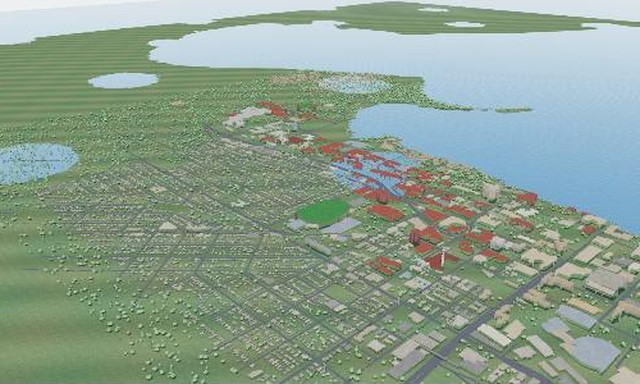
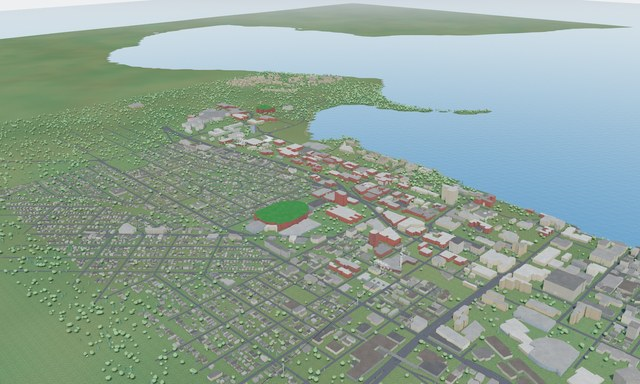
Campus twin: solid buildings, grey roofs, dimmed night; new card picture

diff --git a/CaseStudies/cbe-digital-twins/campus/index.html b/CaseStudies/cbe-digital-twins/campus/index.html
@@ -586,7 +586,7 @@ aside { overflow-anchor: none; }
         <h4>How to explore</h4>
         <ul><li>Opens on the <b>Campus</b> overview with the numbered ChemE spots.</li><li><b>Click a spot</b> (or its row on the left) to zoom in and open its card.</li><li><b>Drag</b> to orbit, <b>scroll</b> or pinch to zoom.</li><li>Camera buttons, bottom right: <b>Campus</b> (overview), <b>Lakeshore</b>, <b>Plants</b>, <b>West campus</b>, <b>Overhead</b>.</li></ul>
         <h4>Buttons</h4>
-        <ul><li><b>Energy tour</b>: 13 guided stops through plants, pipes and buildings.</li><li><b>Networks</b>: shows the steam and chilled-water pipes, with flow.</li><li><b>Heat map</b>: colours buildings by this hour's heating or cooling demand.</li><li><b>Day/night lighting</b>: sun, sky and lights follow the clock; off holds midday light.</li><li><b>Real world</b>: what this system is and why it matters.</li><li><b>Conditions</b>: live readings on the plants and landmarks.</li><li>Subject chips (<b>Balances</b>, <b>Thermo</b>, …): a short lesson per course.</li><li><b>Winter · Spring · Summer · Fall</b> and <b>Day · Night</b>: jump in time. <b>Play</b> and the speed buttons run the clock.</li></ul>
+        <ul><li><b>Energy tour</b>: 13 guided stops through plants, pipes and buildings.</li><li><b>Networks</b>: shows the steam and chilled-water pipes, with flow.</li><li><b>Heat map</b>: colours buildings by this hour's heating or cooling demand.</li><li><b>Day/night lighting</b>: sun, sky and lights follow the clock; at night the scene dims to soft moonlight (never dark) and windows and street lights come on; off holds midday light.</li><li><b>Real world</b>: what this system is and why it matters.</li><li><b>Conditions</b>: live readings on the plants and landmarks.</li><li>Subject chips (<b>Balances</b>, <b>Thermo</b>, …): a short lesson per course.</li><li><b>Winter · Spring · Summer · Fall</b> and <b>Day · Night</b>: jump in time. <b>Play</b> and the speed buttons run the clock.</li></ul>
         <h4>Change conditions</h4>
         <ul><li>Pick a <b>Pathway</b> in the side panel, or move the levers under Electricity, Heating, Cooling and Economics.</li><li>Watch annual CO₂, cost, and the "What this means" boxes.</li></ul>
         <h4>Equations, courses, problems</h4>
@@ -913,7 +913,7 @@ renderer.shadowMap.enabled = true; renderer.shadowMap.type = THREE.PCFSoftShadow
 stage.prepend(renderer.domElement);
 const scene = new THREE.Scene();
 const HAZE = new THREE.Color("#c9d3d9");
-scene.fog = new THREE.Fog(HAZE.clone(), 7000, 26000);
+scene.fog = new THREE.Fog(HAZE.clone(), 6000, 17000);   // the ground ends ~7 km out: haze hides its edge
 const pmrem = new THREE.PMREMGenerator(renderer);
 scene.environment = pmrem.fromScene(new RoomEnvironment(renderer), 0.04).texture;
 const skyU = { top: { value: new THREE.Color("#5f8fc4") }, mid: { value: new THREE.Color("#b6c9d8") }, bot: { value: HAZE.clone() } };
@@ -923,19 +923,22 @@ scene.add(new THREE.Mesh(new THREE.SphereGeometry(30000, 32, 16), new THREE.Shad
 // Physical sky (Preetham) driven by the sun position; the environment light is rebuilt from it with PMREM.
 const sky = new Sky(); sky.scale.setScalar(28000); scene.add(sky);
 // keep the sun disk finite in the half-float buffers (the stock shader reaches ~1e5 there, which bloom would smear)
-sky.material.fragmentShader = sky.material.fragmentShader.replace("gl_FragColor = vec4( retColor, 1.0 );", "retColor = clamp(retColor, vec3(0.0), vec3(24.0)); gl_FragColor = vec4( retColor, 1.0 );");
+sky.material.fragmentShader = sky.material.fragmentShader.replace("uniform vec3 up;", "uniform vec3 up;\nuniform vec3 uDusk; uniform float uDuskK;").replace("gl_FragColor = vec4( retColor, 1.0 );", "retColor = clamp(retColor, vec3(0.0), vec3(24.0)); retColor = mix(retColor, uDusk * mix(1.0, 0.75, smoothstep(0.0, 0.6, direction.y)), uDuskK); gl_FragColor = vec4( retColor, 1.0 );");
+sky.material.uniforms.uDusk = { value: new THREE.Color("#3a5684") }; sky.material.uniforms.uDuskK = { value: 0 };
 const envSky = new Sky(); envSky.scale.setScalar(50); envSky.material.uniforms = sky.material.uniforms; envSky.material.fragmentShader = sky.material.fragmentShader; const envScene = new THREE.Scene(); envScene.add(envSky);
 Object.assign(sky.material.uniforms, { turbidity: { value: 4 }, rayleigh: { value: 1.2 }, mieCoefficient: { value: 0.004 }, mieDirectionalG: { value: 0.8 } });
-let envRT = null, envT = -1, envDir = new THREE.Vector3();
+let envRT = null, envT = -1, envK = -1, envDir = new THREE.Vector3();
 function updateEnv(now, force) {
-  if (!force && (now - envT < 400 || envDir.distanceToSquared(sky.material.uniforms.sunPosition.value) < 1e-4)) return;
-  envT = now; envDir.copy(sky.material.uniforms.sunPosition.value);
+  const dk = sky.material.uniforms.uDuskK.value;
+  if (!force && (now - envT < 400 || (envDir.distanceToSquared(sky.material.uniforms.sunPosition.value) < 1e-4 && Math.abs(dk - envK) < 0.02))) return;
+  envT = now; envDir.copy(sky.material.uniforms.sunPosition.value); envK = dk;
   const rt = pmrem.fromScene(envScene, 0, 0.1, 100); if (envRT) envRT.dispose(); envRT = rt; scene.environment = rt.texture;
 }
 const camera = new THREE.PerspectiveCamera(38, 1, 4, 40000);
 const controls = new OrbitControls(camera, renderer.domElement);
 controls.enableDamping = true; controls.maxPolarAngle = Math.PI * 0.48; controls.maxDistance = 12000; controls.minDistance = 30;
 const hemi = new THREE.HemisphereLight("#eef3f7", "#55604a", 0.7); scene.add(hemi);
+const HEMI_DAY = [new THREE.Color("#eef3f7"), new THREE.Color("#55604a")], HEMI_NIGHT = [new THREE.Color("#a9bde0"), new THREE.Color("#4a5566")];
 const sun = new THREE.DirectionalLight("#fff3e2", 2.4);
 sun.castShadow = true; sun.shadow.mapSize.set(PHONE ? 1024 : 4096, PHONE ? 1024 : 4096); sun.shadow.radius = 3; sun.shadow.bias = -0.0005; sun.shadow.normalBias = 1.5;
 Object.assign(sun.shadow.camera, { left: -2600, right: 2600, top: 2600, bottom: -2600, near: 10, far: 9000 });
@@ -1037,14 +1040,17 @@ function lightTargets() {
   const d = Math.floor(hour / 24) % 365, follow = dayNight && !REDUCED, hod = follow ? hour % 24 : 12.5, hAbs = d * 24 + hod;
   const s = M.sunPos(d, hod), g = ghiAt(hAbs), se = Math.max(0.01, Math.sin(s.el));
   const day01 = Math.min(1, Math.max(0, (s.elDeg + 4) / 14)), cloud = Math.min(1, Math.max(0, 1 - g / Math.max(1, 1098 * se * Math.exp(-0.057 / Math.max(0.05, se)) * 0.85)));
-  LT.dir.set(-Math.cos(s.el) * Math.sin(s.az), Math.sin(s.el), Math.cos(s.el) * Math.cos(s.az));
-  LT.sun = s.el > 0 ? 3.4 * Math.min(1, g / 500 + 0.3) * Math.min(1, s.elDeg / 3) : 0;
-  const warm = Math.max(0, 1 - s.elDeg / 18); LT.sunC.setRGB(1, 0.93 - 0.25 * warm, 0.85 - 0.45 * warm);
-  LT.hemi = 0.1 + 0.22 * day01;
-  const night = 1 - day01, clear = new THREE.Color("#4f86c6"), over = new THREE.Color("#8c969e"), dusk = new THREE.Color("#e8a26a"), nite = new THREE.Color("#0b1424");
+  LT.dir.set(-Math.cos(s.el) * Math.sin(s.az), Math.sin(s.el), Math.cos(s.el) * Math.cos(s.az)); (LT.sunDir ||= new THREE.Vector3()).copy(LT.dir);
+  // night factor: 0 with the sun above 6°, 1 below −6°; at night the scene dims to a moonlit dusk (never full darkness)
+  const nf = Math.min(1, Math.max(0, (6 - s.elDeg) / 12)); LT.nf = nf * nf * (3 - 2 * nf);
+  const sunI = s.el > 0 ? 3.4 * Math.min(1, g / 500 + 0.3) * Math.min(1, s.elDeg / 3) : 0, moonI = 0.9 * Math.min(1, Math.max(0, -s.elDeg / 6));
+  LT.sun = Math.max(sunI, moonI); if (sunI < moonI) LT.dir.set(-0.35, 0.78, 0.52).normalize();   // soft key light from a high moon
+  const warm = Math.max(0, 1 - s.elDeg / 18); LT.sunC.setRGB(1, 0.93 - 0.25 * warm, 0.85 - 0.45 * warm); if (sunI < moonI) LT.sunC.set("#c3d2f2");
+  LT.hemi = 0.32 + 0.68 * LT.nf;
+  const night = 1 - day01, clear = new THREE.Color("#4f86c6"), over = new THREE.Color("#8c969e"), dusk = new THREE.Color("#e8a26a"), nite = new THREE.Color("#2c4268");
   tmpC.copy(clear).lerp(over, cloud * 0.8); if (warm > 0 && s.el > 0) tmpC.lerp(dusk, warm * 0.35); tmpC.lerp(nite, night);
   LT.top.copy(tmpC); LT.mid.copy(tmpC).lerp(new THREE.Color("#dfe6ea"), 0.5 * day01).lerp(nite, night * 0.8); LT.bot.copy(LT.mid).lerp(new THREE.Color("#b9c3c8"), 0.3);
-  LT.exp = 0.32 + 0.5 * day01; LT.elDeg = s.elDeg; LT.cloud = cloud;
+  LT.exp = 0.82 - 0.07 * LT.nf; LT.elDeg = s.elDeg; LT.cloud = cloud;
   LT.haze = (LT.haze || new THREE.Color()).setRGB(0.74, 0.8, 0.87).lerp(new THREE.Color("#a9b0b5"), cloud * 0.7).lerp(new THREE.Color("#e9b88a"), warm * 0.3 * day01).lerp(nite, night);
   applySeason(d);
 }
@@ -1054,11 +1060,12 @@ function easeLighting(dt) {
   const k = lightInit ? Math.min(1, dt * 1.5) : 1; lightInit = true;
   curDir.lerp(LT.dir, k).normalize(); sun.position.copy(curDir).multiplyScalar(4000).add(controls.target); sun.target.position.copy(controls.target);
   sun.intensity += (LT.sun - sun.intensity) * k; sun.castShadow = sun.intensity > 0.05; sun.color.lerp(LT.sunC, k);
-  hemi.intensity += (LT.hemi - hemi.intensity) * k;
+  hemi.intensity += (LT.hemi - hemi.intensity) * k; LT.nfC = (LT.nfC ?? LT.nf) + (LT.nf - (LT.nfC ?? LT.nf)) * k;
+  hemi.color.copy(HEMI_DAY[0]).lerp(HEMI_NIGHT[0], LT.nfC); hemi.groundColor.copy(HEMI_DAY[1]).lerp(HEMI_NIGHT[1], LT.nfC);
   skyU.top.value.lerp(LT.top, k); skyU.mid.value.lerp(LT.mid, k); skyU.bot.value.lerp(LT.bot, k);
   scene.fog.color.copy(skyU.bot.value);
-  const su = sky.material.uniforms; su.sunPosition.value.copy(curDir); su.turbidity.value = 3 + 7 * LT.cloud; su.rayleigh.value = 1.2 + 1.5 * (1 - LT.cloud) * Math.max(0, 1 - LT.elDeg / 25);
-  sky.visible = LT.elDeg > -4; W.lampMat.emissiveIntensity = 6 * Math.min(1, Math.max(0, (2 - LT.elDeg) / 6)); FX.uNight.value += ((1 - Math.min(1, Math.max(0, (LT.elDeg + 3) / 9))) - FX.uNight.value) * k;
+  const su = sky.material.uniforms; su.sunPosition.value.lerp(LT.sunDir, k).normalize(); su.turbidity.value = 3 + 7 * LT.cloud; su.rayleigh.value = 1.2 + 1.5 * (1 - LT.cloud) * Math.max(0, 1 - LT.elDeg / 25);
+  su.uDuskK.value = LT.nfC; sky.visible = true; W.lampMat.emissiveIntensity = 6 * Math.min(1, Math.max(0, (2 - LT.elDeg) / 6)); FX.uNight.value += ((1 - Math.min(1, Math.max(0, (LT.elDeg + 3) / 9))) - FX.uNight.value) * k;
   if (sky.visible) scene.fog.color.lerp(LT.haze, 0.6);
   { const d = camera.position.distanceTo(controls.target), half = Math.min(2600, Math.max(320, d * 1.3)), sc = sun.shadow.camera;
     if (Math.abs(sc.right - half) / half > 0.15) { Object.assign(sc, { left: -half, right: half, top: half, bottom: -half }); sc.updateProjectionMatrix(); } }
@@ -1500,7 +1507,7 @@ function drawSpots() {
   SPOTS.forEach((sp, i) => { const el = spotEls[i]; if (hide || (sp.show && !sp.show())) { el.style.display = "none"; return; }
     P.copy(sp.p).project(camera);
     const ax = (P.x * 0.5 + 0.5) * r.width, ay = (-P.y * 0.5 + 0.5) * r.height;
-    if (P.z > 1 || ax < -10 || ax > r.width + 10 || ay < 0 || ay > r.height + 10) { el.style.display = "none"; return; }
+    if (!Number.isFinite(ax) || !Number.isFinite(ay) || P.z > 1 || ax < -10 || ax > r.width + 10 || ay < 0 || ay > r.height + 10) { el.style.display = "none"; return; }
     const lw = phone ? 0 : 8 + 6.2 * sp.lab.length;      // label width estimate
     let x = Math.min(Math.max(ax, leftEdge + 12), r.width - 34 - lw), y = ay - 30;   // keep dot and label inside the stage
     for (let tries = 0; tries < 12; tries++) { const hit = placed.find(q => x - 18 < q.x + 18 + q.lw && x + 18 + lw > q.x - 18 && Math.abs(y - q.y) < 34); if (!hit) break; y = hit.y - 36; }

diff --git a/CaseStudies/cbe-digital-twins/campus/world.js b/CaseStudies/cbe-digital-twins/campus/world.js
@@ -36,8 +36,13 @@ export function isLand(x, z) { const k = MASK.n / MASK.size, i = Math.floor((x -
 // terrain: the Bascom Hill drumlin and Observatory Hill as smooth bumps (stylised relief, not surveyed)
 export function hgt(x, z) {
   if (!isLand(x, z)) return -4;
-  return 2 + 24 * Math.exp(-(((x + 60) / 240) ** 2) - ((z + 10) / 170) ** 2) + 16 * Math.exp(-(((x + 380) / 210) ** 2) - ((z + 120) / 140) ** 2) + 3 * Math.sin(x / 520) * Math.cos(z / 410);
+  return Math.max(0.8, 2 + 24 * Math.exp(-(((x + 60) / 240) ** 2) - ((z + 10) / 170) ** 2) + 16 * Math.exp(-(((x + 380) / 210) ** 2) - ((z + 120) / 140) ** 2) + 3 * Math.sin(x / 520) * Math.cos(z / 410));
 }
+
+// smooth 2D value noise in [0, 1] (hash-based, so the seeded random sequence used elsewhere is unchanged)
+function vnoise(x, z) { const h = (i, j) => { const v = Math.sin(i * 127.1 + j * 311.7) * 43758.5453; return v - Math.floor(v); };
+  const i = Math.floor(x), j = Math.floor(z), fx = x - i, fz = z - j, sx = fx * fx * (3 - 2 * fx), sz = fz * fz * (3 - 2 * fz);
+  return (h(i, j) * (1 - sx) + h(i + 1, j) * sx) * (1 - sz) + (h(i, j + 1) * (1 - sx) + h(i + 1, j + 1) * sx) * sz; }
 
 // ---------- extrusion of footprint polygons into one merged mesh ----------
 function extrudeInto(acc, ring, y0, h, wall, roof, seed = Math.random()) {
@@ -47,9 +52,10 @@ function extrudeInto(acc, ring, y0, h, wall, roof, seed = Math.random()) {
   const y1 = y0 + h, P = acc.p, N = acc.n, C = acc.c, F = acc.f; let run = 0;
   for (let i = 0; i < pts.length; i++) {
     const [x0, z0] = pts[i], [x1, z1] = pts[(i + 1) % pts.length], dx = x1 - x0, dz = z1 - z0, L = Math.hypot(dx, dz) || 1, nx = dz / L, nz = -dx / L;
-    const q = [[x0, y0, z0], [x1, y0, z1], [x1, y1, z1], [x0, y0, z0], [x1, y1, z1], [x0, y1, z0]];
-    const fu = [[run, 0], [run + L, 0], [run + L, h], [run, 0], [run + L, h], [run, h]];
-    q.forEach((v, k) => { P.push(...v); N.push(-nx, 0, -nz); C.push(wall.r, wall.g, wall.b); F.push(fu[k][0], fu[k][1], seed); });
+    // outward-facing walls (normal and winding agree, so back-face culling keeps the side towards the camera)
+    const q = [[x0, y0, z0], [x1, y1, z1], [x1, y0, z1], [x0, y0, z0], [x0, y1, z0], [x1, y1, z1]];
+    const fu = [[run, 0], [run + L, h], [run + L, 0], [run, 0], [run, h], [run + L, h]];
+    q.forEach((v, k) => { P.push(...v); N.push(nx, 0, nz); C.push(wall.r, wall.g, wall.b); F.push(fu[k][0], fu[k][1], seed); });
     run += L;
   }
   const tri = THREE.ShapeUtils.triangulateShape(pts.map(([x, z]) => new THREE.Vector2(x, z)), []);
@@ -69,7 +75,8 @@ export function buildWorld(scene) {
   W.groundBase = new Float32Array(p.count * 3);
   for (let i = 0; i < p.count; i++) {
     const x = p.getX(i) - 400, z = p.getZ(i) - 200, y = hgt(x, z); p.setXYZ(i, x, y, z);
-    const c = isLand(x, z) ? new THREE.Color().setHSL(0.25 + 0.035 * Math.sin(x / 90) * Math.cos(z / 70), 0.42, 0.16 + 0.025 * Math.sin(x / 47 + z / 53)) : new THREE.Color("#5d6a5e");
+    // patchy grass from smooth value noise (pure sine waves read as regular stripes at a distance)
+    const c = isLand(x, z) ? new THREE.Color().setHSL(0.25 + 0.035 * (2 * vnoise(x / 260, z / 260) - 1), 0.42, 0.16 + 0.025 * (2 * (0.65 * vnoise(x / 420 + 7, z / 420) + 0.35 * vnoise(x / 130, z / 130 + 3)) - 1)) : new THREE.Color("#5d6a5e");
     col.set([c.r, c.g, c.b], i * 3);
   }
   W.groundBase.set(col); g.setAttribute("color", new THREE.BufferAttribute(col, 3)); g.computeVertexNormals();
@@ -98,11 +105,13 @@ export function buildWorld(scene) {
   // ---------- university buildings from the official map ----------
   const PAL = { lab: "#a5533f", hospital: "#c2bcb0", residence: "#b8a07a", education: "#c7b493", office: "#d8ccb0", assembly: "#b9a58a", athletic: "#9aa0a6", stadium: "#9b4a3a", food: "#c9a77d", parking: "#8e8f92", greenhouse: "#cfe3d9", storage: "#9a9690", plant: "#8c4b3b" };
   const acc = { p: [], n: [], c: [], f: [] }, cc = new THREE.Color(), roofC = new THREE.Color();
+  // flat campus roofs read as grey membrane or gravel (not a darker copy of the wall); picked by a position hash so the seeded layout is unchanged
+  const ROOFS = ["#9d9b96", "#8b8985", "#aeaba5", "#7f7d79", "#b7b4ad", "#94918b"], rh = (x, z) => { const v = Math.sin(x * 12.9898 + z * 78.233) * 43758.5453; return v - Math.floor(v); };
   const share = (() => { let s = 0; for (const b of DATA.uw) if (!b.nonUW && b.type !== "plant") s += b.gsf * b.eui; return s; })();
   W.B = DATA.uw.map(b => {
     const ring = []; for (const [x, z] of b.r) ring.push([x, z]);
     let ymin = 1e9; for (const [x, z] of ring) ymin = Math.min(ymin, hgt(x, z)); const y0 = Math.max(ymin, 0.5) - 0.5;
-    const start = acc.p.length / 3; cc.set(b.nonUW ? "#bdb6aa" : PAL[b.type] || "#c7b493"); roofC.copy(cc).multiplyScalar(b.type === "stadium" ? 1 : 0.82); if (b.type === "stadium") roofC.set("#3d7a3a");
+    const start = acc.p.length / 3; cc.set(b.nonUW ? "#bdb6aa" : PAL[b.type] || "#c7b493"); roofC.set(b.type === "greenhouse" ? "#dfe9e4" : ROOFS[Math.floor(rh(b.r[0][0], b.r[0][1]) * ROOFS.length)]); if (b.type === "stadium") roofC.set("#3d7a3a");
     extrudeInto(acc, ring, y0, b.h, cc, roofC, R());
     return { ...b, y0, top: y0 + b.h, color: cc.getHex(), roof: roofC.getHex(), v0: start, v1: acc.p.length / 3, campus: !b.nonUW && b.type !== "plant", share: !b.nonUW && b.type !== "plant" ? b.gsf * b.eui / share : 0, intensity: b.eui / 65.8 };
   });
@@ -115,8 +124,9 @@ export function buildWorld(scene) {
 
   // ---------- other buildings (OpenStreetMap), one mesh ----------
   { const a2 = { p: [], n: [], c: [], f: [] }, pal = ["#b9aa98", "#a89c8c", "#c4b8a6", "#9d968c", "#b8a48f", "#8f8a84"], w = new THREE.Color(), r2 = new THREE.Color();
+    const CROOF = ["#6f6c68", "#7c7873", "#5f5d5b", "#8a8580", "#6b625a", "#9a9792"];   // shingle and membrane greys
     for (const rec of DATA.city) { const h = rec[0], ring = []; for (let i = 1; i < rec.length; i += 2) ring.push([rec[i], rec[i + 1]]);
-      const [x, z] = ring[0]; if (!isLand(x, z)) continue; w.set(pal[Math.floor(R() * pal.length)]); r2.copy(w).multiplyScalar(0.8);
+      const [x, z] = ring[0]; if (!isLand(x, z)) continue; w.set(pal[Math.floor(R() * pal.length)]); r2.set(CROOF[Math.floor(rh(x, z) * CROOF.length)]);
       extrudeInto(a2, ring, Math.max(hgt(x, z), 0.5) - 0.5, h, w, r2, R()); }
     W.cityMesh = toMesh(a2, W.uwMesh.material); W.cityMesh.receiveShadow = true; scene.add(W.cityMesh); }
 

diff --git a/CaseStudies/cbe-digital-twins/campus/realism.js b/CaseStudies/cbe-digital-twins/campus/realism.js
@@ -77,10 +77,10 @@ diffuseColor.rgb = mix(diffuseColor.rgb, vec3(0.8, 0.83, 0.88), vRoof * uSnow * 
   float det = dot(sX, R1) * faceDirection; vec3 grad = sign(det) * (dH.x * R1 + dH.y * R2);
   vec3 nn = abs(det) * normal - grad; if (abs(det) > 1e-12 && dot(nn, nn) > 1e-20) normal = normalize(nn); }`)
       .replace("#include <emissivemap_fragment>", `#include <emissivemap_fragment>
-float lit = step(0.58, fh(cid * 1.37 + sd * 91.0));
-totalEmissiveRadiance += win * mix(lit, 0.35, far) * uNight * vec3(1.0, 0.74, 0.42) * 3.2;`);
+float lit = step(0.68, fh(cid * 1.37 + sd * 91.0));   // about a third of the windows lit, warm and soft (accents, not floodlight)
+totalEmissiveRadiance += win * mix(lit, 0.16, far) * uNight * vec3(1.0, 0.72, 0.4) * 1.7;`);
   };
-  m.customProgramCacheKey = () => "facade-v4";
+  m.customProgramCacheKey = () => "facade-v5";
   return m;
 }
 
